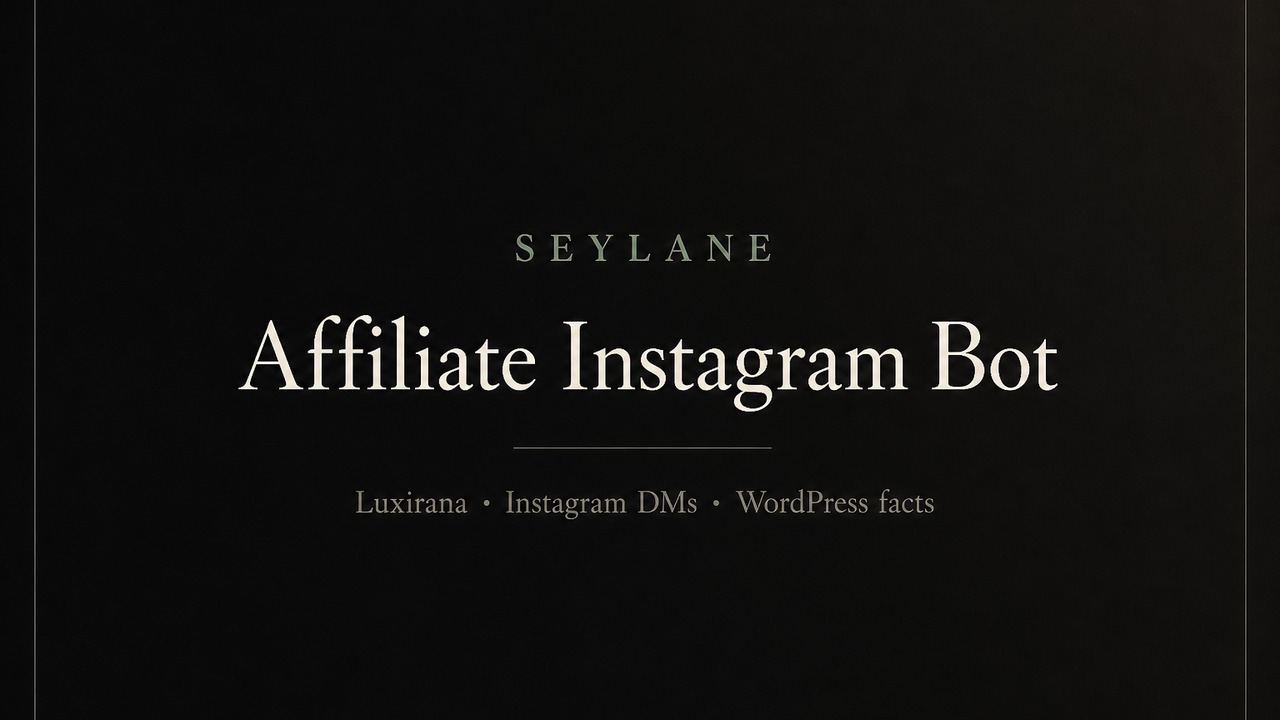
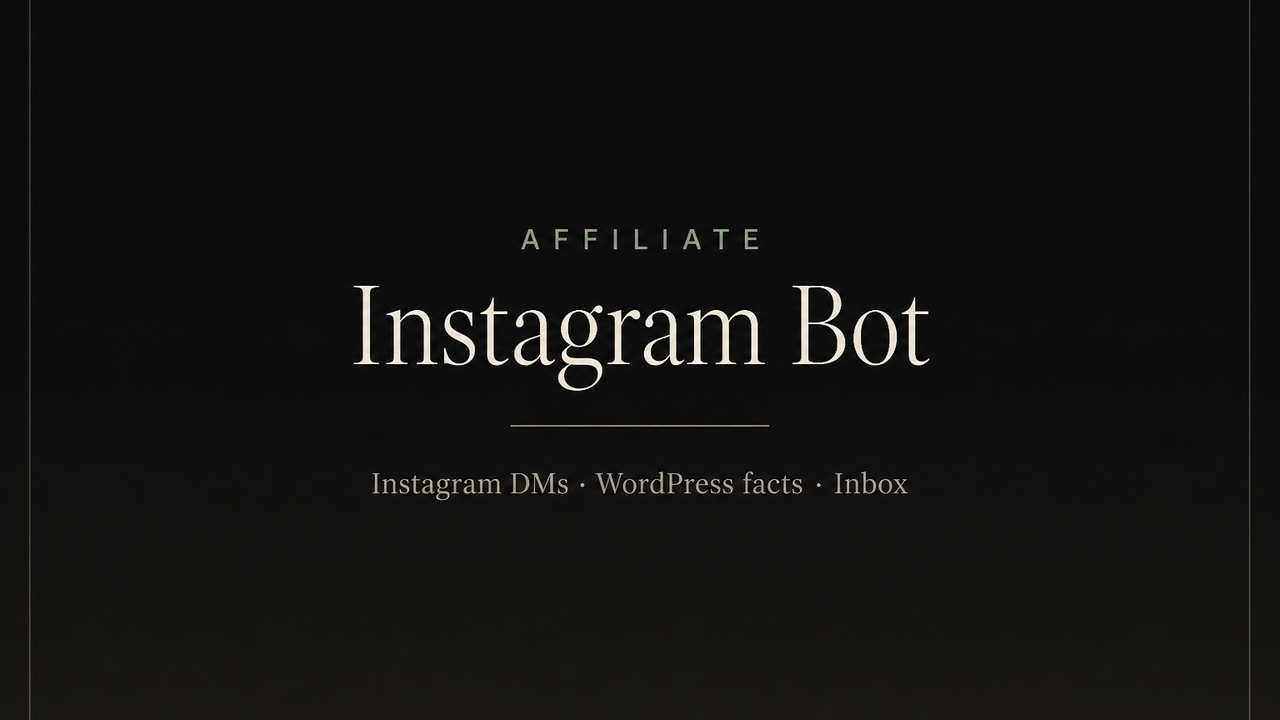
Keep public docs product-only
Drop Seylane and Luxirana from client-style framing. README, OG,
and flow describe the affiliate Instagram bot itself. Repo name
unchanged. App and Railway files untouched.

diff --git a/README.md b/README.md
@@ -1,23 +1,23 @@
 <p align="center">
-  <img src="docs/og.png" alt="Seylane — Affiliate Instagram Bot" width="100%">
+  <img src="docs/og.png" alt="Affiliate Instagram Bot" width="100%">
 </p>
 
 <h1 align="center">Affiliate Instagram Bot</h1>
 
 <p align="center">
-  <em>Seylane voice. Luxirana inbox. Affiliate DMs.</em>
+  <em>Instagram DMs. WordPress facts. Affiliate inbox.</em>
 </p>
 
 <p align="center">
   This repository stays <strong>affiliate-instagram-bot</strong>.<br>
-  Seylane affiliate bot for Luxirana. Not a rename. Not a new product.
+  Same product. Not a rename.
 </p>
 
 ---
 
-The bot sits in the Luxirana Instagram inbox and writes as a page admin. It recruits online shop owners into the Seylane affiliate program (`onlineshops`) and will not invent product facts.
+The bot sits in an Instagram inbox and writes as a page admin. It recruits online shop owners into the affiliate program (`onlineshops`) and will not invent product facts.
 
-Names, prices, and links come from the WordPress REST API on [luxirana.com](https://luxirana.com) (`wp/v2`). GPT may only restate that payload.
+Names, prices, and links come from the WordPress REST API (`wp/v2`) at `WC_API_URL` (default `https://luxirana.com`). GPT may only restate that payload.
 
 ## How a message moves
 
@@ -25,13 +25,13 @@ Names, prices, and links come from the WordPress REST API on [luxirana.com](http
   <img src="docs/flow.png" alt="Inbox to unread thread to WordPress facts to GPT to reply" width="100%">
 </p>
 
-Puppeteer (stealth) opens `instagram.com/direct/inbox`, keeps unread threads, and processes **one** conversation at a time. Product questions go through `search_product.js` to WordPress. GPT writes a short reply. Collaboration intent sends `https://luxirana.com` on its own line.
+Puppeteer (stealth) opens `instagram.com/direct/inbox`, keeps unread threads, and processes **one** conversation at a time. Product questions go through `search_product.js` to WordPress. GPT writes a short reply. Collaboration intent sends the store URL on its own line.
 
 An Instagram Graph API client exists for webhooks and product cards. It is not the inbox loop.
 
 ## What it actually does
 
-- Speaks as the Luxirana admin. Never admits it is a model.
+- Speaks as the page admin. Never admits it is a model.
 - Assumes the other person runs an online shop, not a personal cart.
 - Names six conversation brands: Misswake, Collamin, IceBall, Dafi, Umbrella, Pixel.
 - Resolves WordPress brand IDs for Misswake (`2113`), Collamin (`2112`), and Comeon (`2110`). IceBall, Dafi, Umbrella, and Pixel have no brand ID in the search map.
